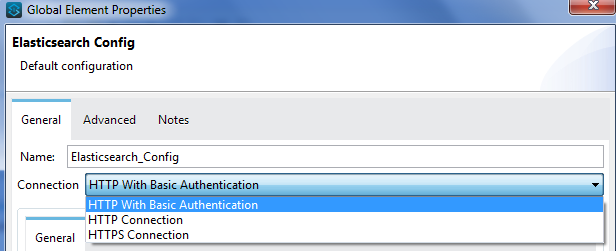
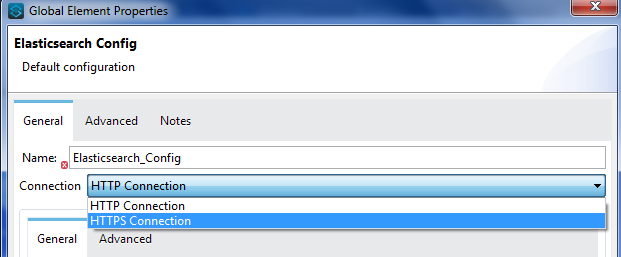
Updated the documents with HTTP and HTTPS connection configuration

diff --git a/README.md b/README.md
@@ -1,7 +1,7 @@
 # README.md
 
 ## Elasticsearch Anypoint™ Connector
-The Elasticsearch connector allows you to access the Elasticsearch REST API through Anypoint Platform. Elasticsearch is a distributed, open source search and analytics engine, designed for horizontal scalability, reliability, and easy management. The connector exposes Elasticsearch operations by executing their API calls as per configuration. It supports HTTP, HTTP with basic authentication and HTTPS connections to Elasticsearch instance.
+The Elasticsearch connector allows you to access the Elasticsearch REST API through Anypoint Platform. Elasticsearch is a distributed, open source search and analytics engine, designed for horizontal scalability, reliability, and easy management. The connector exposes Elasticsearch operations by executing their API calls as per configuration. It supports HTTP and HTTPS connections to Elasticsearch instance.
 
 ## Supported Mule runtime versions
 Mule 4.1.1
@@ -13,21 +13,16 @@ Elasticsearch version 6.2.2 or above
 
 Install connector in Anypoint Studio following the instructions at [Installing Connectors from Anypoint Exchange](https://docs.mulesoft.com/anypoint-studio/v/7.1/add-modules-in-studio-to) 
 
-To configure and use the Elasticsearch connector refer [user manual](doc/Elasticsearch-connector-user-manual.adoc) 
+To configure and use the Elasticsearch connector refer [user manual](doc/user-manual.adoc) 
 
 ## Authentication
-* Elasticsearch host can be accessed in three different ways from a client (Mule runtime / Anypoint studio ): 
-    - Without authentication (HTTP)
-	 - With basic authentication (HTTP)
+* Elasticsearch host can be accessed in two different ways from a client (Mule runtime / Anypoint studio ): 
+    - Without authentication (HTTP)	 
     - With certificate based authentication (HTTPS)
 
 ### WITHOUT AUTHENTICATION (HTTP)
-Provide Elasticsearch host and port in a global configuration of Elasticsearch connector. Without authentication use is generally recommended for internal applications or for testing purpose where Elasticsearch is running on HTTP port.
+Provide Elasticsearch host and port in a global configuration of Elasticsearch connector. Without authentication use is generally recommended for internal applications or for testing purpose where Elasticsearch is running on HTTP port. 
 
-### HTTP WITH BASIC AUTHENTICATION (HTTP)
-Along with host and port, basic authentication will require two additional fields:
-1) Username
-2) Password
 
 ### CERTIFICATE BASED AUTHENTICATION (HTTPS)
 Implementing CERTIFICATE BASED AUTHENTICATION mechanisms involves a few extra steps, but ìs preferred if your Elasticsearch is exposed to external users, as it ensures better security.

diff --git a/CHANGELOG.md b/CHANGELOG.md
@@ -6,7 +6,7 @@
 * Supported Mule Runtime Versions: v4.1.1
 * New Features and Functionality :
   
-  Elasticsearch connector supports different connection configurations like HTTP, HTTP with basic authentication and HTTPS. It supports different operations like : 
+  Elasticsearch connector supports different connection configurations like HTTP and HTTPS. It supports different operations like : 
 	
 		Create Index
 		Delete Index
